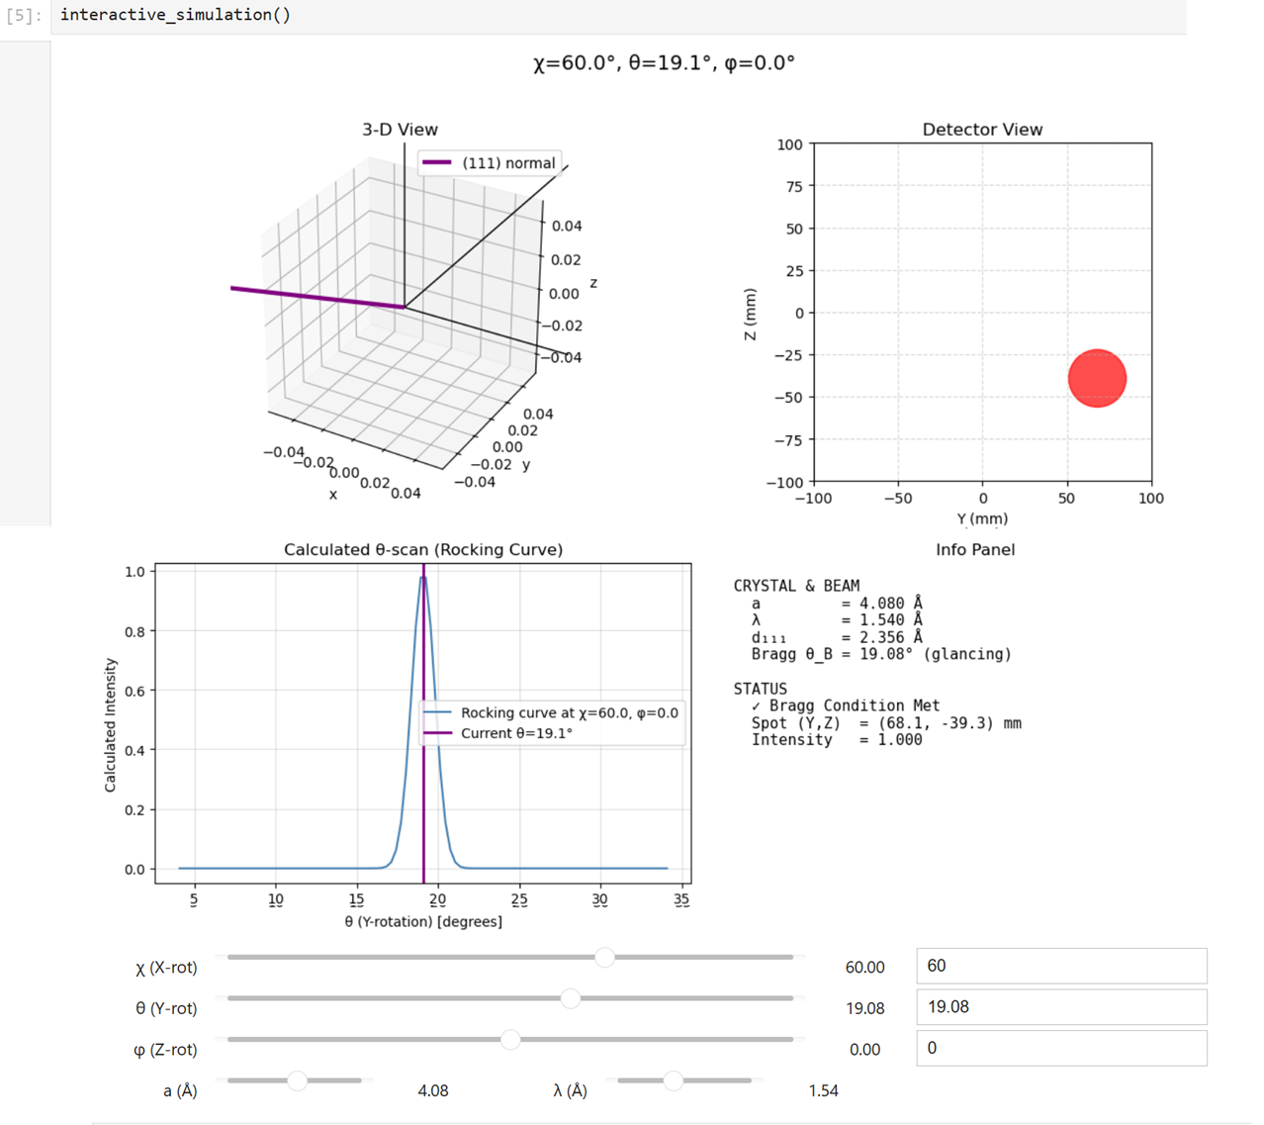
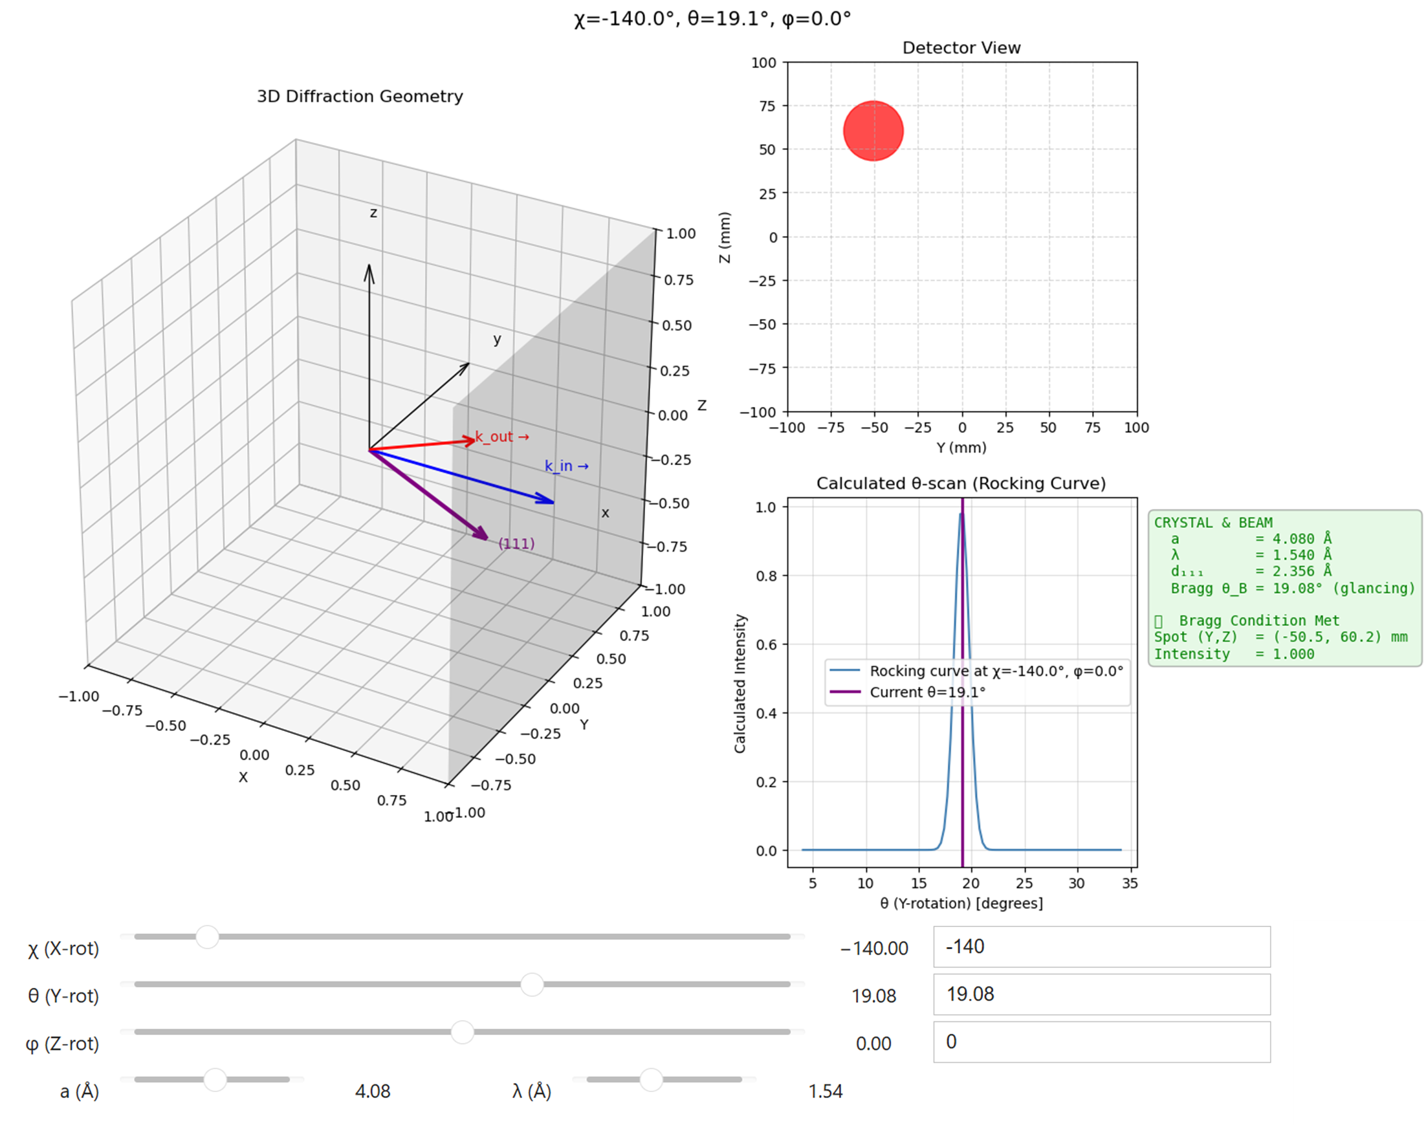
update readme

diff --git a/XRDSimulator.py b/XRDSimulator.py
@@ -204,51 +204,106 @@ class XRDSimulator:
         matplotlib.Figure object for display.
 
         """
-        fig = plt.figure(figsize=(12, 9))
-        fig.suptitle(f"χ={chi_deg:.1f}°, θ={theta_deg:.1f}°, φ={phi_deg:.1f}°", fontsize=14)
-        
-        # 1. 3-D view (unchanged)
-        ax3d = fig.add_subplot(221, projection='3d')
-        ax3d.set_box_aspect([1, 1, 1])
-        # lab axes
-        ax3d.quiver([0,0,0], [0,0,0], [0,0,0], [1,0,0], [0,1,0], [0,0,1], length=0.8, color='k', linewidth=1)
-        # (111) normal after rotation
-        n = self.rotate_crystal(chi_deg=chi_deg, theta_deg=theta_deg, phi_deg=phi_deg)
-        ax3d.quiver(0, 0, 0, n[0], n[1], n[2], length=0.8, color='purple', linewidth=3, label='(111) normal')
-        ax3d.set_xlabel('x'); ax3d.set_ylabel('y'); ax3d.set_zlabel('z')
-        ax3d.set_title('3-D View')
-        ax3d.legend()
+        from matplotlib.gridspec import GridSpec
+        #fig = plt.figure(figsize=(14, 9))
+        fig = plt.figure(figsize=(14, 9), constrained_layout=True)
 
-        # 2. Detector view (unchanged)
-        ax_det = fig.add_subplot(222)
+        fig.suptitle(f"χ={chi_deg:.1f}°, θ={theta_deg:.1f}°, φ={phi_deg:.1f}°", fontsize=14)
+        gs = GridSpec(nrows=2, ncols=3, figure=fig)
+        ax3d    = fig.add_subplot(gs[:, :2], projection='3d')  # big 3D plot spans 2 rows, 2 cols
+        ax_det  = fig.add_subplot(gs[0, 2])                    # top right
+        ax_bragg = fig.add_subplot(gs[1, 2])                   # bottom right    
+        # ------------------------------------------------------------
+        # 1. 3D View – Beam, Plane Normal, Detector Plane
+        # ------------------------------------------------------------
+        #ax3d = fig.add_subplot(221, projection='3d')
+        ax3d.set_box_aspect([1, 1, 1])
+    
+        # Plot lab axes
+        axes_length = 1.0
+        ax3d.quiver(0, 0, 0, 1, 0, 0, color='k', linewidth=1, arrow_length_ratio=0.1)
+        #ax3d.text(1.05, 0, 0, '[100]', color='k')
+        ax3d.text(1.25, 0, 0, 'x', color='k')
+        ax3d.quiver(0, 0, 0, 0, 1, 0, color='k', linewidth=1, arrow_length_ratio=0.1)
+        #ax3d.text(0, 1.05, 0, '[010]', color='k')
+        ax3d.text(0, 1.25, 0, 'y', color='k')
+        ax3d.quiver(0, 0, 0, 0, 0, 1, color='k', linewidth=1, arrow_length_ratio=0.1)
+        #ax3d.text(0, 0, 1.05, '[001]', color='k')
+        ax3d.text(0, 0, 1.25, 'z', color='k')
+    
+        # Beam direction (incident)
+        ax3d.quiver(0, 0, 0, 1, 0, 0, color='blue', linewidth=2, arrow_length_ratio=0.1)
+        ax3d.text(0.9, 0.1, 0.1, 'k_in →', color='blue')
+    
+        # Rotated (111) normal
+        n = self.rotate_crystal(chi_deg, theta_deg, phi_deg)
+        ax3d.quiver(0, 0, 0, n[0], n[1], n[2], color='purple', linewidth=3, arrow_length_ratio=0.1)
+        ax3d.text(n[0]*1.1, n[1]*1.1, n[2]*1.1, '(111)', color='purple')
+    
+        # Optional: Bragg-reflected ray
         det_y, det_z, intensity = self.calculate_diffraction(n)
+        if intensity > 0.01:
+            k_in_norm = self.k_in / np.linalg.norm(self.k_in)
+            k_out = k_in_norm - 2 * np.dot(k_in_norm, n) * n
+            ax3d.quiver(0, 0, 0, k_out[0], k_out[1], k_out[2], color='red', linewidth=2, arrow_length_ratio=0.1)
+            ax3d.text(k_out[0], k_out[1], k_out[2], 'k_out →', color='red')
+    
+        # Detector plane
+        d = self.detector_distance
+        # Detector surface grid (at x = detector_distance)
+        plane_size = self.detector_size / 100  # scale to match axes (~2x2 units)
+        x_det = np.full((2, 2), self.detector_distance / 100)
+        y_det = np.array([[-1, 1], [-1, 1]]) * (plane_size / 2)
+        z_det = np.array([[-1, -1], [1, 1]]) * (plane_size / 2)        
+        ax3d.plot_surface(x_det, y_det, z_det, color='gray', alpha=0.2, edgecolor='none')    
+        ax3d.set_xlim(-1, 1)
+        ax3d.set_ylim(-1, 1)
+        ax3d.set_zlim(-1, 1)
+        ax3d.set_xlabel('X')
+        ax3d.set_ylabel('Y')
+        ax3d.set_zlabel('Z')
+        ax3d.set_title('3D Diffraction Geometry')
+    
+        # ------------------------------------------------------------
+        # 2. Detector View
+        # ------------------------------------------------------------
+        #ax_det = fig.add_subplot(222)
         if intensity > 0.01:
             circ = Circle((det_y, det_z), radius=2 + 15 * intensity, color='red', alpha=0.7)
             ax_det.add_patch(circ)
-        ax_det.set_xlim(-self.detector_size/2, self.detector_size/2); ax_det.set_ylim(-self.detector_size/2, self.detector_size/2)
-        ax_det.set_xlabel('Y (mm)'); ax_det.set_ylabel('Z (mm)')
-        ax_det.set_title('Detector View'); ax_det.grid(True, ls='--', alpha=0.5); ax_det.set_aspect('equal')
-
-        # 3. Bragg-analysis (θ-scan) -- THIS IS THE NEW, ACCURATE PLOT
-        ax_bragg = fig.add_subplot(223)
+        ax_det.set_xlim(-self.detector_size/2, self.detector_size/2)
+        ax_det.set_ylim(-self.detector_size/2, self.detector_size/2)
+        ax_det.set_xlabel('Y (mm)')
+        ax_det.set_ylabel('Z (mm)')
+        ax_det.set_title('Detector View')
+        ax_det.grid(True, ls='--', alpha=0.5)
+        ax_det.set_aspect('equal')
+    
+        # ------------------------------------------------------------
+        # 3. Rocking Curve (θ-scan)
+        # ------------------------------------------------------------
+        #ax_bragg = fig.add_subplot(223)
         theta_scan_range = np.linspace(theta_deg - 15, theta_deg + 15, 100)
         intensity_curve = []
-        # Calculate the true intensity curve for the current chi and phi
         for th_val in theta_scan_range:
             temp_normal = self.rotate_crystal(chi_deg, th_val, phi_deg)
             _, _, temp_intensity = self.calculate_diffraction(temp_normal)
             intensity_curve.append(temp_intensity)
         
-        ax_bragg.plot(theta_scan_range, intensity_curve, color='steelblue', label=f'Rocking curve at χ={chi_deg:.1f}, φ={phi_deg:.1f}')
+        ax_bragg.plot(theta_scan_range, intensity_curve, color='steelblue',
+                      label=f'Rocking curve at χ={chi_deg:.1f}°, φ={phi_deg:.1f}°')
         ax_bragg.axvline(theta_deg, color='purple', lw=2, label=f'Current θ={theta_deg:.1f}°')
         ax_bragg.set_xlabel('θ (Y-rotation) [degrees]')
         ax_bragg.set_ylabel('Calculated Intensity')
         ax_bragg.set_title('Calculated θ-scan (Rocking Curve)')
-        ax_bragg.legend(); ax_bragg.grid(True, alpha=0.4)
-
-        # 4. Info panel (updated for clarity)
-        ax_info = fig.add_subplot(224)
-        ax_info.axis('off')
+        ax_bragg.legend()
+        ax_bragg.grid(True, alpha=0.4)
+    
+        # ------------------------------------------------------------
+        # 4. Info Panel
+        # ------------------------------------------------------------
+        # ax_info = fig.add_subplot(224)
+        # ax_info.axis('off')
         theta_bragg_deg = np.degrees(self.theta_bragg)
         txt = (
             f"CRYSTAL & BEAM\n"
@@ -256,17 +311,32 @@ class XRDSimulator:
             f"  λ         = {self.wavelength:.3f} Å\n"
             f"  d₁₁₁      = {self.d111:.3f} Å\n"
             f"  Bragg θ_B = {theta_bragg_deg:.2f}° (glancing)\n\n"
-            f"STATUS\n"
+            #f"STATUS\n"
         )
         if intensity > 0.01:
-             txt += (f"  ✓ Bragg Condition Met\n"
-                     f"  Spot (Y,Z)  = ({det_y:.1f}, {det_z:.1f}) mm\n"
-                     f"  Intensity   = {intensity:.3f}")
+            txt += (
+                f"\N{WHITE HEAVY CHECK MARK}  Bragg Condition Met\n"
+                f"Spot (Y,Z)  = ({det_y:.1f}, {det_z:.1f}) mm\n"
+                f"Intensity   = {intensity:.3f}"
+            )
+            box_color = '#d6f5d6'  # light green background
+            text_color = 'green'
         else:
-             txt += "  ✗ Not in Bragg Condition"
-        ax_info.text(0.05, 0.95, txt, fontsize=11, family='monospace', verticalalignment='top')
-        ax_info.set_title('Info Panel')
-        fig.tight_layout(rect=[0, 0, 1, 0.96])
+            txt += "✗ Not in Bragg Condition"
+            box_color = '#f5d6d6'  # light red background
+            text_color = 'red'
+
+        #ax_info.text(0.05, 0.95, txt, fontsize=11, family='monospace', verticalalignment='top')
+        #ax_info.set_title('Info Panel')
+        # Display in top right of ax_bragg
+        ax_bragg.text(1.05, 0.95, txt,
+              transform=ax_bragg.transAxes,
+              fontsize=10,
+              va='top', ha='left',
+              family='monospace',
+              color=text_color,
+              bbox=dict(facecolor=box_color, alpha=0.6, edgecolor='gray', boxstyle='round,pad=0.4') )
+        #fig.tight_layout(rect=[0, 0, 1, 0.96])
         return fig
 
 # --------------------------------------------------------------
@@ -274,48 +344,92 @@ class XRDSimulator:
 # --------------------------------------------------------------
 sim = XRDSimulator()
 
+sim = XRDSimulator()
+
 def interactive_simulation():
     '''
+    Interactive simulation for single-crystal X-ray diffraction from the (111) plane
+    of an FCC crystal, using a Bragg-reflection geometry.
 
-    By playing with this simulator, you will find:
-        Rotation Around the Y-Axis (Rocking Scan)
-        This is the most critical rotation for finding a spot.
-        
-        Position: The spot only appears when the rotation angle is almost exactly 
-        theta_B. Its position on the detector remains fixed on the z-axis.
-        
-        Intensity: The intensity is zero far from 
-        theta_B. As you rotate towards 
-        theta_B, the intensity sharply rises to a maximum and then quickly falls back to zero. A plot of intensity versus this rotation angle is called a rocking curve. For a good single crystal, the peak is extremely narrow (often less than a degree).
-        
-        Rotation Around the X-Axis (Beam Direction)
-        This rotation is performed while the Bragg condition is already met.
-        
-        Position: The diffraction spot will move in a circle on the detector. The center of the circle is the position of the direct, undiffracted beam, and its radius is R=L
-        tan(2
-        theta_B). This circular path is the intersection of the cone of diffracted rays (called a Debye-Scherrer cone) with your flat detector.
-        
-        Intensity: The spot remains "on" (diffracting) throughout this entire rotation. Ideally, its intensity would be constant.
-        
-        Rotation Around the Z-Axis (Initial Normal Direction)
-        This rotation is performed from the initial state where the (111) normal is along the z-axis.
-        
-        Position & Intensity: Nothing happens. The (111) plane's normal vector lies along the rotation axis, so its orientation in space doesn't change. The plane remains parallel to the beam, the Bragg condition is never met, and the spot never appears.
+    -----------------------------------------------------------
+    GEOMETRY SETUP:
+    -----------------------------------------------------------
 
+    • Incident X-ray beam travels along the +X direction:
+        --> k_in = [1, 0, 0]  ← [100] in crystal/lab space
+
+    • Initial (111) crystal plane has its normal aligned along +Z:
+        --> n_111 = [0, 0, 1]  ← [111] is parallel to lab-frame [001]
+
+    • Detector is a flat square positioned perpendicular to the beam:
+        --> Located at X = L, spanning the YZ plane (200 mm × 200 mm)
+
+    -----------------------------------------------------------
+    ROTATION CONTROLS:
+    -----------------------------------------------------------
+
+    ▶ χ (X-rotation): Rotation around beam direction (X)
+        • Spot moves in a circle (Debye-Scherrer cone) if Bragg is already satisfied.
+        • Radius = L · tan(2θ_B)
+        • Intensity remains "on" throughout χ rotation.
+
+    ▶ θ (Y-rotation): Rocking scan
+        • Controls whether Bragg condition is met.
+        • Spot appears sharply only when θ ≈ Bragg angle (θ_B).
+        • Results in narrow peak in rocking curve.
+
+    ▶ φ (Z-rotation): Rotation around (111) normal
+        • Has no effect — the plane normal is unchanged.
+        • No diffraction unless other angles are correct.
+
+    -----------------------------------------------------------
+    OBSERVATIONS:
+    -----------------------------------------------------------
+
+    ✔ Y-Rotation (θ):
+        • Most sensitive angle. A small deviation from θ_B suppresses intensity.
+        • Produces sharp Gaussian-shaped rocking curve.
+
+    ✔ X-Rotation (χ):
+        • Causes diffraction spot to move in a circle.
+        • Useful for visualizing cone of diffracted rays.
+
+    ✔ Z-Rotation (φ):
+        • No effect — the normal vector is unchanged.
+        • Bragg condition cannot be satisfied alone.
+
+    -----------------------------------------------------------
+    UI DESCRIPTION:
+    -----------------------------------------------------------
+
+    This widget interface includes sliders and input boxes for:
+        - χ, θ, φ: Rotation angles in degrees
+        - a: Lattice constant (Å)
+        - λ: X-ray wavelength (Å)
+
+    Live updates include:
+        - 3D geometry of beam and rotated plane
+        - Detector view with diffraction spot (if any)
+        - Rocking curve (θ-scan)
+        - Info panel with simulation parameters and status
     '''
+
     def linked_pair(label, min_, max_, step_, init_):
         sld = widgets.FloatSlider(value=init_, min=min_, max=max_, step=step_, description=label, layout=widgets.Layout(width='70%'), continuous_update=False)
         txt = widgets.BoundedFloatText(value=init_, min=min_, max=max_, step=step_, layout=widgets.Layout(width='25%'))
         widgets.jslink((sld, 'value'), (txt, 'value'))
         return sld, txt
 
+    # Rotation sliders
     chi_sld, chi_txt = linked_pair('χ (X-rot)', -180, 180, 0.1, 0.0)
     th_sld,  th_txt  = linked_pair('θ (Y-rot)', -90, 90, 0.1, 0.0)
     phi_sld, phi_txt = linked_pair('φ (Z-rot)', -90, 90, 0.1, 0.0)
 
+    # Lattice & wavelength sliders
     a_sld = widgets.FloatSlider(value=sim.a, min=2.0, max=6.0, step=0.01, description='a (Å)', continuous_update=False)
     lam_sld = widgets.FloatSlider(value=sim.wavelength, min=0.5, max=3.0, step=0.01, description='λ (Å)', continuous_update=False)
 
+    # Layout
     out = widgets.Output()
     row_chi = widgets.HBox([chi_sld, chi_txt])
     row_th  = widgets.HBox([th_sld,  th_txt])
@@ -323,6 +437,7 @@ def interactive_simulation():
     row_mat = widgets.HBox([a_sld, lam_sld])
     ui = widgets.VBox([out, row_chi, row_th, row_phi, row_mat])
 
+    # Plot updater
     def _draw(_=None):
         sim.a = a_sld.value
         sim.wavelength = lam_sld.value
@@ -330,14 +445,20 @@ def interactive_simulation():
         sim.theta_bragg = np.arcsin(sim.wavelength / (2 * sim.d111))
         with out:
             clear_output(wait=True)
-            fig = sim.visualize_setup(chi_deg=chi_sld.value, theta_deg=th_sld.value, phi_deg=phi_sld.value)
+            fig = sim.visualize_setup(
+                chi_deg=chi_sld.value,
+                theta_deg=th_sld.value,
+                phi_deg=phi_sld.value
+            )
             plt.show(fig)
 
+    # Attach callbacks
     for w in (chi_sld, th_sld, phi_sld, chi_txt, th_txt, phi_txt, a_sld, lam_sld):
         w.observe(_draw, names='value')
 
     display(ui)
     _draw()
+
 
 # --- RUN THE INTERACTIVE UI ---
 # (Make sure to run this in a Jupyter Notebook or JupyterLab environment)
